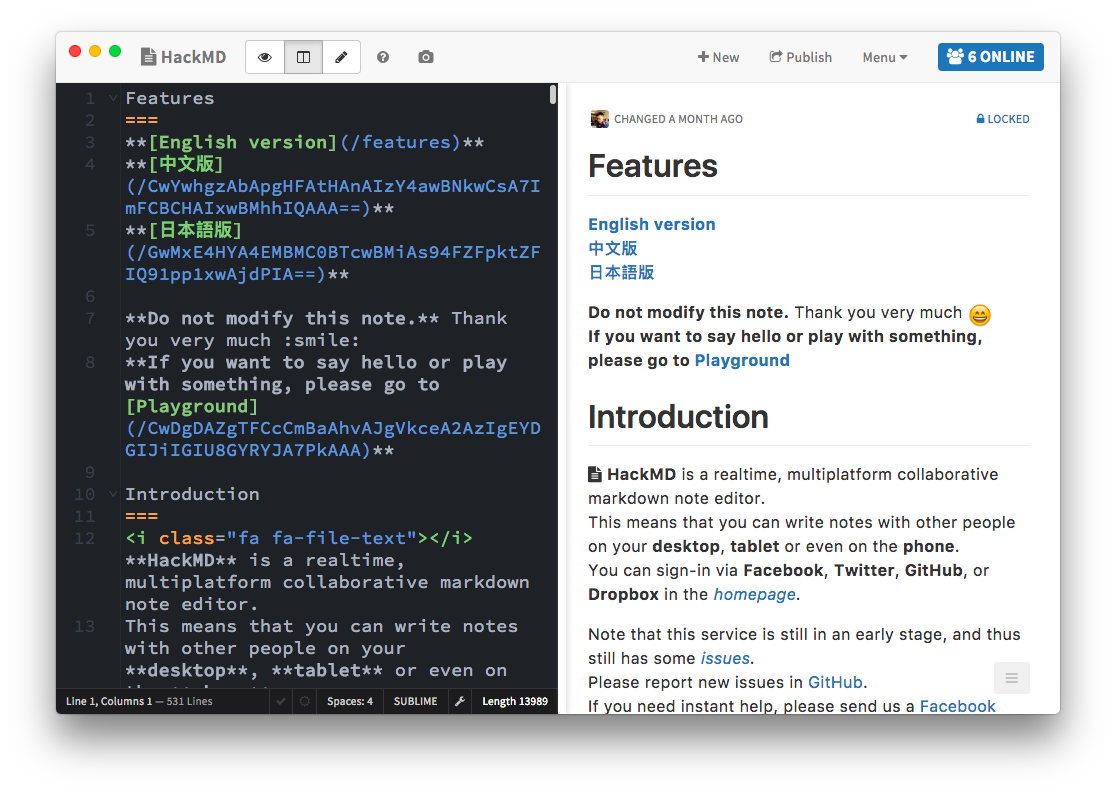
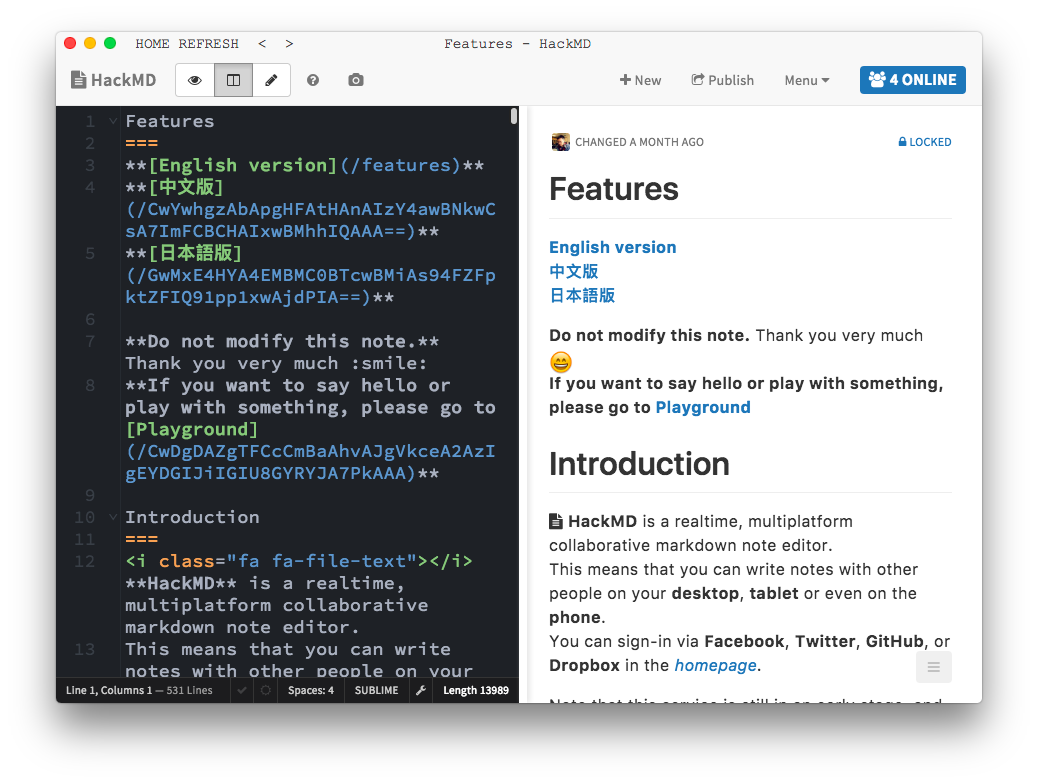
Update screenshot

Changed region(s): [[0.0308, 0.0307, 0.9557, 0.9195], [0.5241, 0.0307, 0.5857, 0.0613], [0.4316, 0.0307, 0.4933, 0.0613]]

diff --git a/README.md b/README.md
@@ -2,7 +2,7 @@
 
 An electron wrapped desktop client for HackMD :tada:
 
-![editor](./docs/images/editor.png)
+![editor](./docs/images/editor.png?)
 
 ## Tools
 
